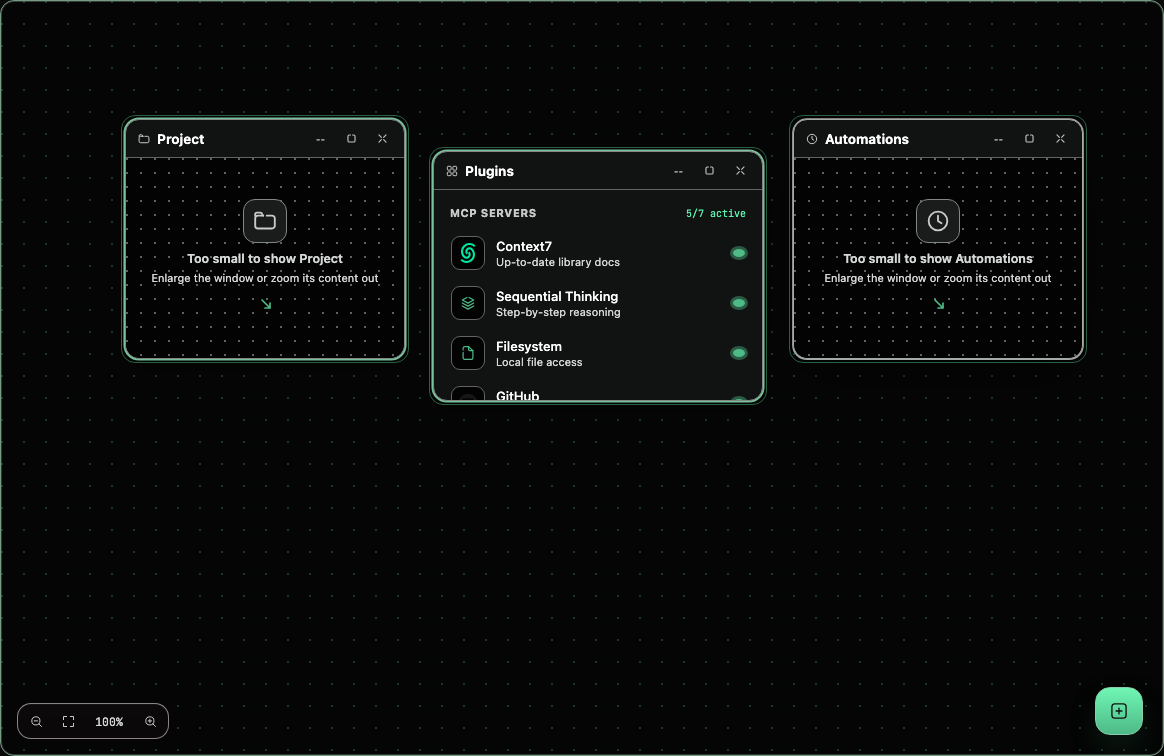
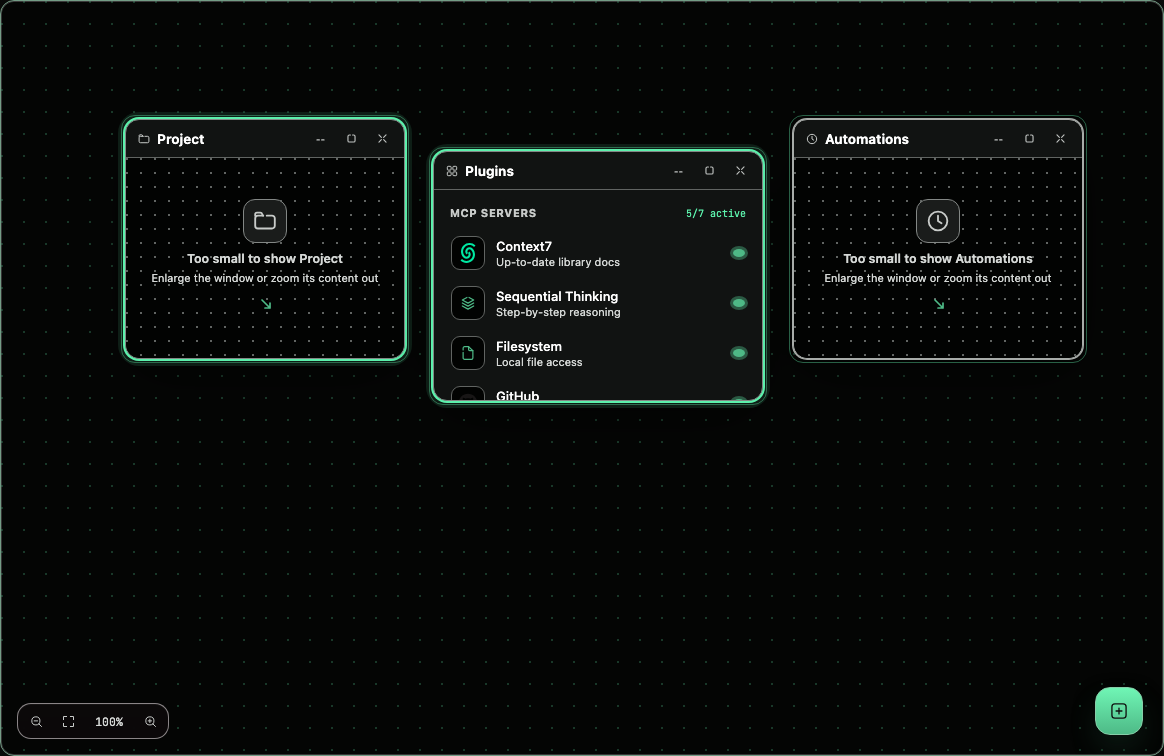
test(workspace): stabilize selection evidence capture (#2055)

diff --git a/tests/e2e/workspace-selection-fidelity-2060.spec.ts b/tests/e2e/workspace-selection-fidelity-2060.spec.ts
@@ -15,6 +15,7 @@ const PLAYWRIGHT_PLAN_COMMAND =
 const UI_RECEIPT_COMMAND = `.keiko-scripts/ui-verify-receipt.sh 2060 -- ${PLAYWRIGHT_PLAN_COMMAND}`;
 
 const WINDOW_IDS = ["issue-2060-project", "issue-2060-plugins", "issue-2060-automations"] as const;
+const SELECTION_VISUAL_SETTLE_TIMEOUT_MS = 500;
 
 const SCREENSHOT_ARTIFACTS = [
   "01-dark.png",
@@ -266,6 +267,23 @@ async function selectAllWindows(page: Page): Promise<void> {
   );
 }
 
+async function waitForSelectionVisualState(page: Page): Promise<void> {
+  await page.evaluate(async (timeoutMs) => {
+    const settle = Promise.allSettled(
+      document.getAnimations().map((animation) => animation.finished),
+    );
+    const timeout = new Promise((resolve) => window.setTimeout(resolve, timeoutMs));
+    await Promise.race([settle, timeout]);
+    await new Promise<void>((resolve) => {
+      requestAnimationFrame(() => {
+        requestAnimationFrame(() => {
+          resolve();
+        });
+      });
+    });
+  }, SELECTION_VISUAL_SETTLE_TIMEOUT_MS);
+}
+
 async function selectedWindowNames(page: Page): Promise<readonly string[]> {
   const names: string[] = [];
   for (const id of WINDOW_IDS) {
@@ -302,6 +320,7 @@ async function selectedStyleProof(page: Page): Promise<JsonObject> {
 async function captureMode(page: Page, mode: ModeCase): Promise<CaptureRecord> {
   await openMode(page, mode);
   await selectAllWindows(page);
+  await waitForSelectionVisualState(page);
   const workspace = page.locator("main.workspace");
   await workspace.screenshot({ path: screenshotPath(mode.file) });
   const viewport = page.viewportSize();
